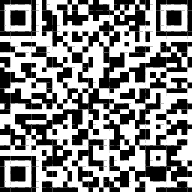
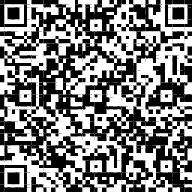
general: tweaked about menu options

diff --git a/ClrVpin/About/About.xaml b/ClrVpin/About/About.xaml
@@ -42,7 +42,7 @@
           </StackPanel>
         </Button>
 
-        <Button Command="{Binding HelpCommand}" Width="70" ToolTip="Show online help">
+        <Button Command="{Binding HelpCommand}" Width="70" ToolTip="View the online help">
           <StackPanel>
             <TextBlock Text="Help" HorizontalAlignment="Center" />
             <materialDesign:PackIcon Kind="HelpCircleOutline" Style="{StaticResource PackIconStyle}" />
@@ -52,7 +52,7 @@
         <Button Command="{Binding AuthorCommand}" Width="70" ToolTip="Contact the Author">
           <StackPanel>
             <TextBlock Text="Author" HorizontalAlignment="Center" />
-            <materialDesign:PackIcon Kind="Account" Style="{StaticResource PackIconStyle}" />
+            <materialDesign:PackIcon Kind="Email" Style="{StaticResource PackIconStyle}" />
           </StackPanel>
         </Button>
 
@@ -63,7 +63,7 @@
           </StackPanel>
         </Button>
         
-        <Button Command="{Binding UpdateCommand}" Width="70" ToolTip="Special community thanks">
+        <Button Command="{Binding UpdateCommand}" Width="70" ToolTip="Manually check for an update">
           <StackPanel>
             <TextBlock Text="Update" HorizontalAlignment="Center" />
             <materialDesign:PackIcon Kind="Update" Style="{StaticResource PackIconStyle}" />

diff --git a/ClrVpin/About/Donate.xaml b/ClrVpin/About/Donate.xaml
@@ -27,7 +27,9 @@
 
       <TextBlock Margin="0,30,0,10" HorizontalAlignment="Center" Text="or scan this barcode on your phone.." />
 
-      <Image Source="/Resources/PayPalQr.png" HorizontalAlignment="Center" Stretch="None" />
+      <Grid Background="White" HorizontalAlignment="Center" Width="250">
+        <Image Source="/Resources/PayPalQr.png" HorizontalAlignment="Center" Stretch="None" Margin="20" />
+      </Grid>
     </StackPanel>
   </DataTemplate>
 

diff --git a/ClrVpin/Settings/Settings.xaml b/ClrVpin/Settings/Settings.xaml
@@ -90,7 +90,7 @@
         </GroupBox>
 
         <!-- front end folders -->
-        <GroupBox Header="Frontend" Margin="0,10,0,0">
+        <GroupBox Header="Frontend - PinballY/PinballX" Margin="0,10,0,0">
           <StackPanel Margin="0,0,0,3">
             <WrapPanel>
               <ContentControl ContentTemplate="{StaticResource FolderSelection}" Content="{Binding FrontendFolderModel}" />

diff --git a/ClrVpin/About/DonateViewModel.cs b/ClrVpin/About/DonateViewModel.cs
@@ -10,14 +10,15 @@ namespace ClrVpin.About
     [AddINotifyPropertyChangedInterface]
     public class DonateViewModel
     {
-        private string _paypalDonateUrl = @"https://www.paypal.com/donate?business=PL536UKUXC852&no_recurring=0&currency_code=AUD";
+        // donations setup via stoj@stoj.net
+        private const string PaypalDonateUrl = @"https://www.paypal.com/donate/?business=HT4GWFWEDWDCJ&no_recurring=0&item_name=ClrVpin+open+source+project.++https%3A%2F%2Fgithub.com%2Fstojy%2FClrVpin&currency_code=AUD";
 
         public DonateViewModel()
         {
-            NavigateToPayPalCommand = new ActionCommand(() => Process.Start(new ProcessStartInfo(_paypalDonateUrl) { UseShellExecute = true}));
+            NavigateToPayPalCommand = new ActionCommand(() => Process.Start(new ProcessStartInfo(PaypalDonateUrl) { UseShellExecute = true}));
         }
 
-        public ICommand NavigateToPayPalCommand { get; set; }
+        public ICommand NavigateToPayPalCommand { get; }
 
         public void Show(Window parent)
         {
